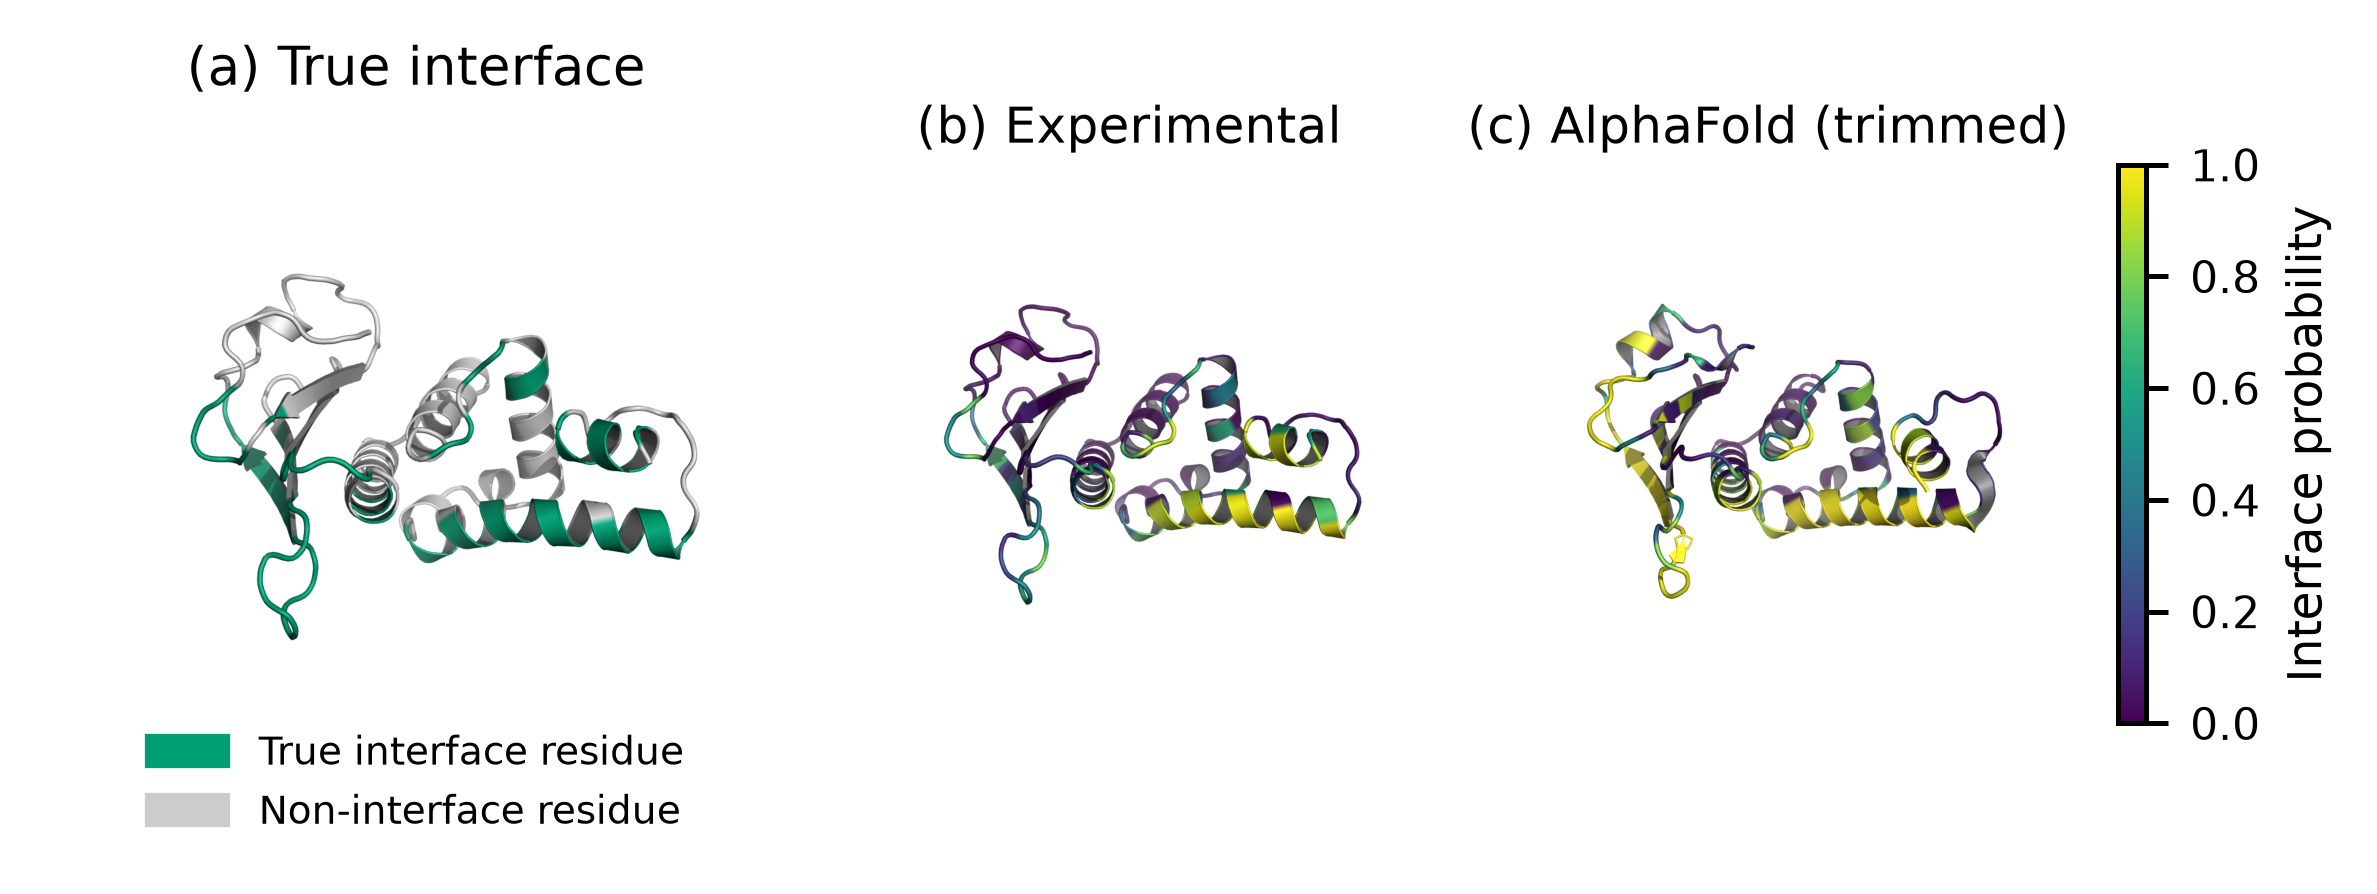
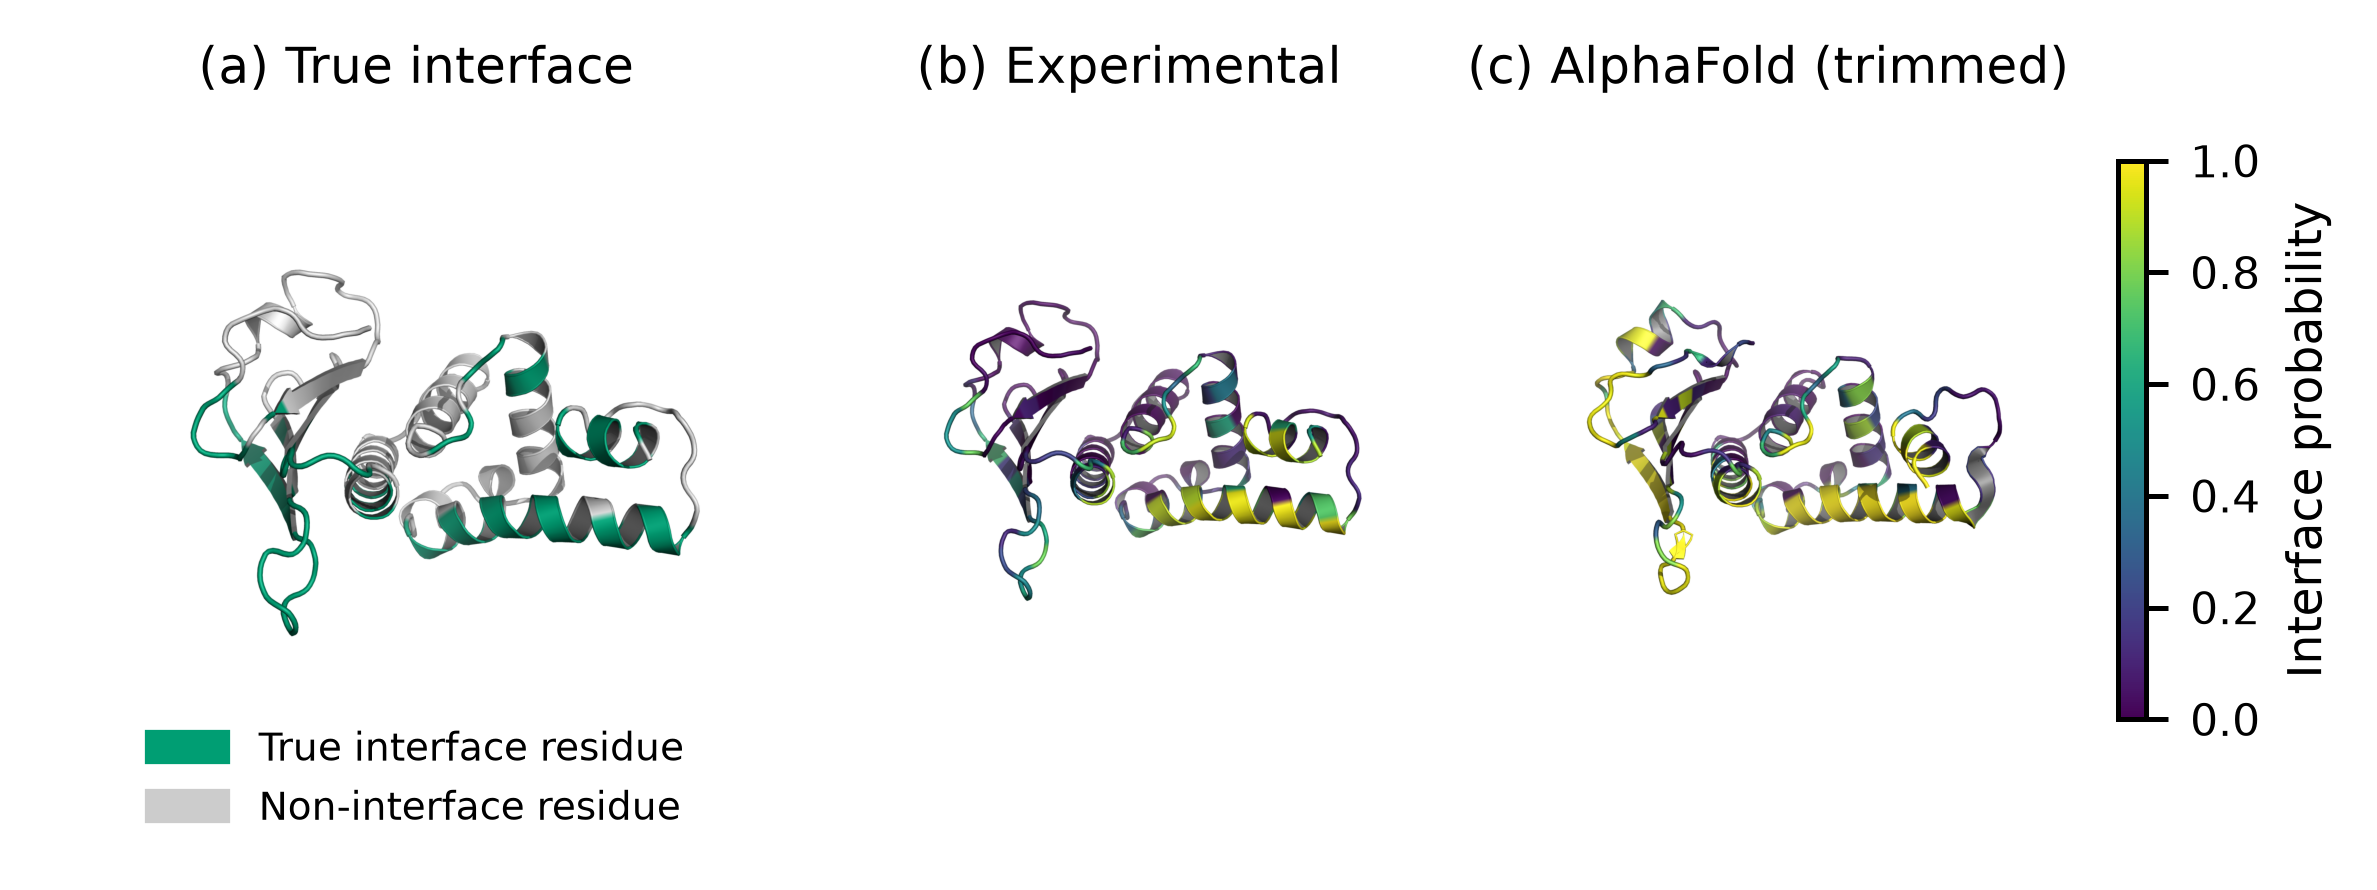
Fig. 6: put panel titles on one baseline at one font size
Titles were per-axes set_title calls at mixed sizes (8.5/8); with imshow's
equal aspect the axes differ in height, so the titles sat at different
heights. Re-rendered with the existing PyMOL env; render content unchanged.

diff --git a/scripts/render_example_chain.py b/scripts/render_example_chain.py
@@ -343,7 +343,6 @@ def _compose_figure(panel_paths: dict, meta_path: Path, output_path: Path) -> No
     for key, ax in zip("abc", axes):
         img = np.array(Image.open(panel_paths[key]).convert("RGB"))
         ax.imshow(img)
-        ax.set_title(titles[key], fontsize=8.5 if key == "a" else 8)
         ax.axis("off")
 
     fig.subplots_adjust(wspace=0.05)
@@ -352,6 +351,15 @@ def _compose_figure(panel_paths: dict, meta_path: Path, output_path: Path) -> No
     cbar = fig.colorbar(sm, ax=[axes[1], axes[2]], shrink=0.62, pad=0.03, label="Interface probability")
     cbar.ax.tick_params(labelsize=7)
     cbar.set_label("Interface probability", fontsize=7.5)
+
+    # Panel titles on one shared baseline, one font size: with imshow's
+    # equal aspect the three axes end up different heights, so per-axes
+    # set_title would put each title at a different height.
+    fig.canvas.draw()
+    top = max(ax.get_position().y1 for ax in axes)
+    for key, ax in zip("abc", axes):
+        pos = ax.get_position()
+        fig.text((pos.x0 + pos.x1) / 2, top + 0.02, titles[key], ha="center", va="bottom", fontsize=8)
 
     true_patch = mpatches.Patch(color=GREEN, label="True interface residue")
     non_patch = mpatches.Patch(color=NON_INTERFACE_GREY, label="Non-interface residue")
